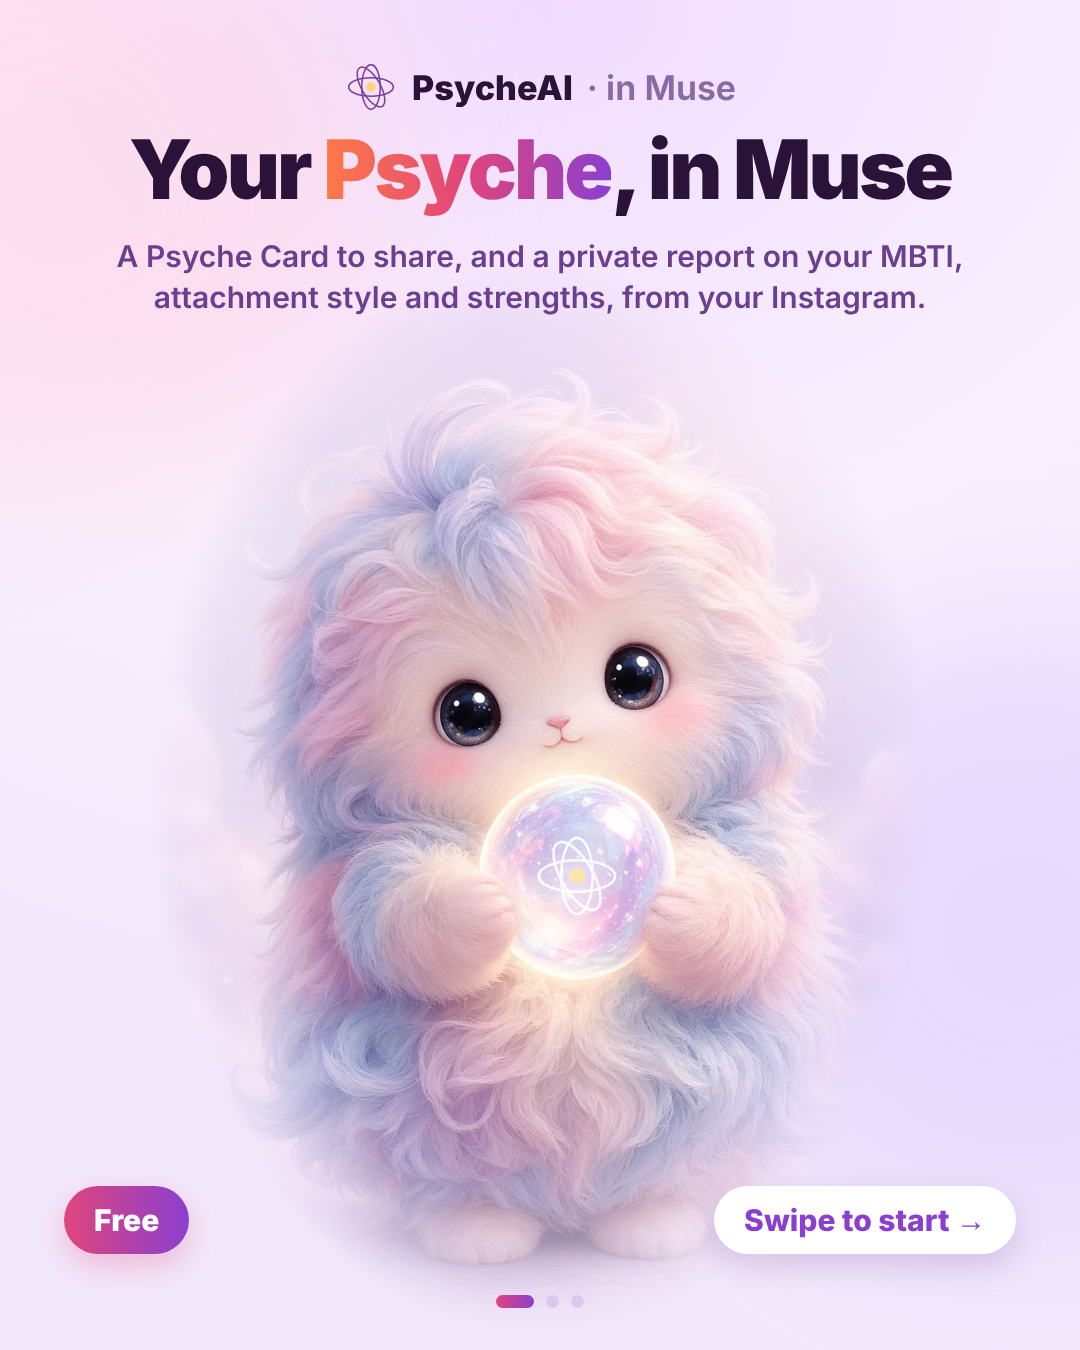
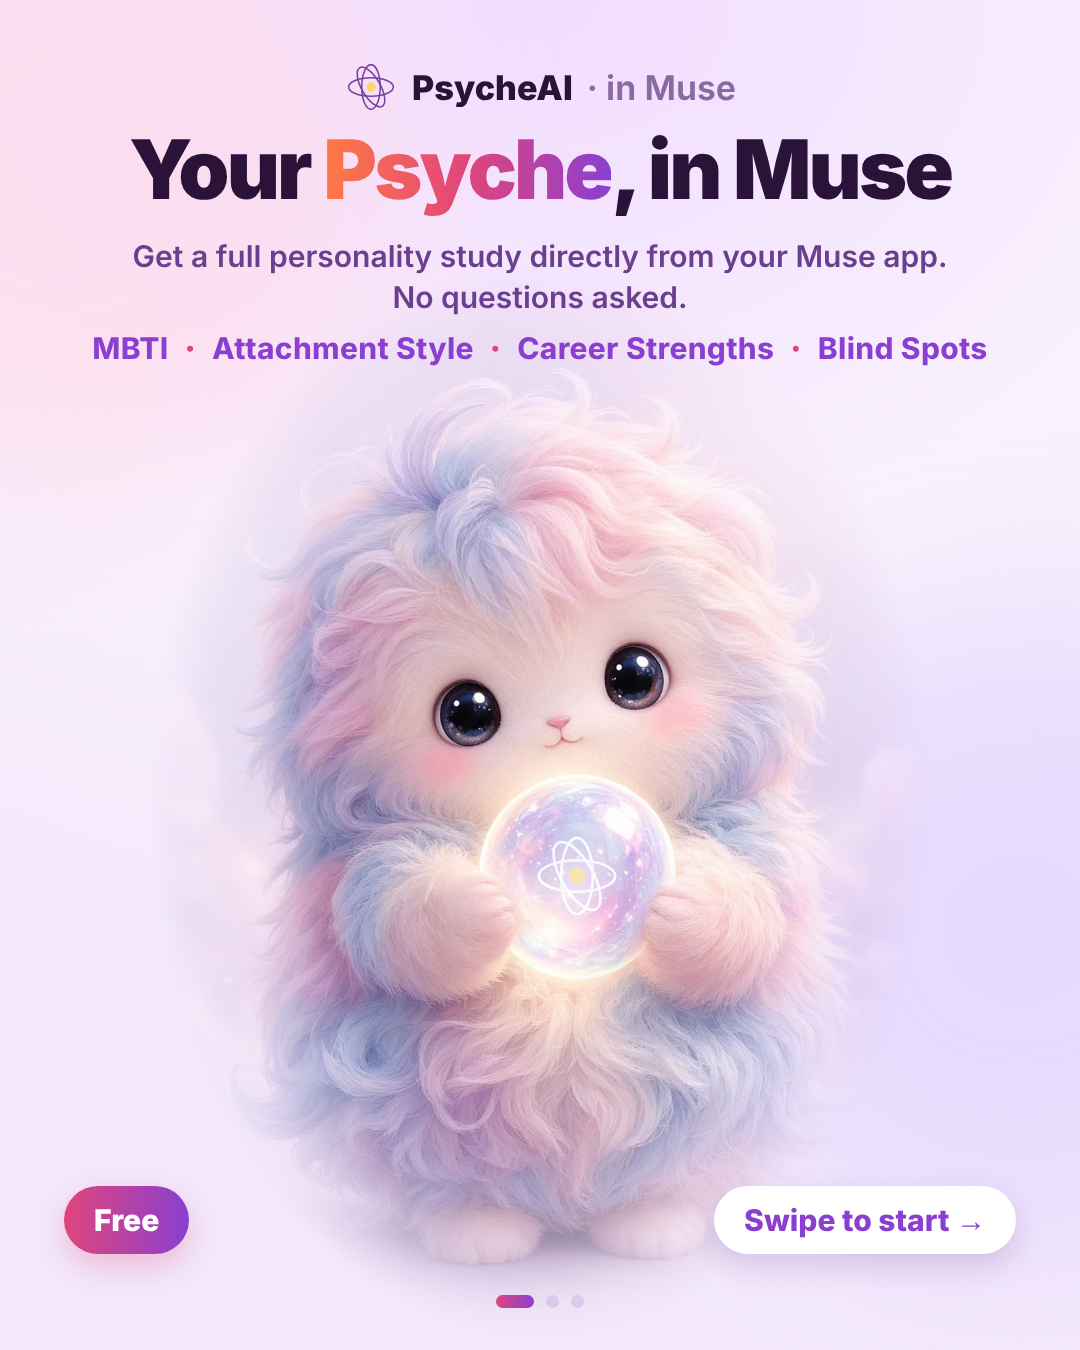
/muse's copy box gives the full prompt; the Muse carousel simpler: a full personality study with the four things it covers, the Card and Report made in Muse, "Then sync with a friend."
Claude-Session: https://claude.ai/code/session_01Fuzsy19nH9JnecaSEhjjzX

Changed region(s): [[0.1222, 0.1556, 0.9167, 0.28], [0.0917, 0.2489, 0.1528, 0.28]]

diff --git a/promo/carousel-muse.html b/promo/carousel-muse.html
@@ -30,7 +30,11 @@ h1 { position: absolute; left: 60px; right: 60px; text-align: center; font-size:
 #s1 .orbmark { position: absolute; z-index: 2; width: 92px; height: 92px; transform: translate(-50%, -50%);
   filter: drop-shadow(0 0 10px #fff) drop-shadow(0 0 22px rgba(255, 190, 240, .9)); opacity: .92; }
 #s1 h1 { top: 128px; }
-#s1 .lede { top: 236px; font-size: 30px; }
+#s1 .lede { top: 236px; font-size: 30px; left: 60px; right: 60px; }
+/* What the study covers, as on psycheai.io's front page: four words on one line, dots between. */
+#s1 .hpills { position: absolute; left: 0; right: 0; top: 330px; z-index: 3; display: flex; justify-content: center; list-style: none;
+  font-size: 30px; font-weight: 750; letter-spacing: .01em; color: #8a3fd0; white-space: nowrap; }
+#s1 .hpills li + li::before { content: "·"; margin: 0 16px; color: #e0457b; font-weight: 900; }
 #s1 .swipe { position: absolute; right: 64px; bottom: 96px; z-index: 3; padding: 16px 30px; border-radius: 999px; background: #fff;
   font-size: 30px; font-weight: 800; color: #8a3fd0; box-shadow: 0 12px 30px rgba(90, 40, 120, .18); }
 #s1 .free { position: absolute; left: 64px; bottom: 96px; z-index: 3; padding: 16px 30px; border-radius: 999px;
@@ -47,8 +51,7 @@ h1 { position: absolute; left: 60px; right: 60px; text-align: center; font-size:
 .card b { display: block; font-size: 38px; font-weight: 850; letter-spacing: -0.02em; line-height: 1.12; }
 .card span.d { display: block; margin-top: 8px; font-size: 26px; font-weight: 550; line-height: 1.36; color: #6b5a7b; }
 #s2 h1, #s3 h1 { top: 138px; }
-#s2 .lede, #s3 .lede { top: 240px; }
-#s2 .cards { top: 350px; gap: 30px; }
+#s2 .cards { top: 290px; gap: 34px; }
 #s2 .card { padding-top: 34px; padding-bottom: 34px; }
 #s3 .cards { top: 300px; gap: 26px; }
 #s3 .card { padding-top: 26px; padding-bottom: 26px; }
@@ -69,7 +72,8 @@ h1 { position: absolute; left: 60px; right: 60px; text-align: center; font-size:
   <div class="blob" style="width:620px;height:620px;right:-250px;top:620px;background:#e2d6ff;opacity:.7"></div>
   <div class="brand"><svg viewBox="0 0 140 140" class="mark"></svg>PsycheAI <span class="in">· in Muse</span></div>
   <h1>Your <span class="grad">Psyche</span>, in Muse</h1>
-  <p class="lede">A Psyche Card to share, and a private report on your MBTI, attachment style and strengths, from your Instagram.</p>
+  <p class="lede">Get a full personality study directly from your Muse app.<br>No questions asked.</p>
+  <ul class="hpills"><li>MBTI</li><li>Attachment Style</li><li>Career Strengths</li><li>Blind Spots</li></ul>
   <div class="mascot"></div>
   <svg class="orbmark mark" viewBox="0 0 140 140" id="orbmark"></svg>
   <div class="free">Free</div>
@@ -82,11 +86,10 @@ h1 { position: absolute; left: 60px; right: 60px; text-align: center; font-size:
   <div class="blob" style="width:640px;height:640px;left:-280px;top:700px;background:#e2d6ff;opacity:.6"></div>
   <div class="brand"><svg viewBox="0 0 140 140" class="mark"></svg>PsycheAI <span class="in">· in Muse</span></div>
   <h1>Private by <span class="grad">design</span></h1>
-  <p class="lede">Your Instagram is read inside Muse, never uploaded.</p>
   <div class="cards">
     <div class="card"><span class="icon">🔒</span><div><b>Stays in your Muse</b><span class="d">Your Instagram is read right in your own Muse account. Nothing to export or upload.</span></div></div>
     <div class="card"><span class="icon">🙈</span><div><b>De-identified first</b><span class="d">Names, handles, numbers and links removed, and no one else is quoted.</span></div></div>
-    <div class="card"><span class="icon">🗑</span><div><b>Made in Muse</b><span class="d">Your report and Psyche Card are made right in Muse. None of your posts, messages or report go to PsycheAI.</span></div></div>
+    <div class="card"><span class="icon">🗑</span><div><b>Made in Muse</b><span class="d">Your Psyche Card and Report are made right in Muse. None of your posts, messages or report go to PsycheAI.</span></div></div>
     <div class="card"><span class="icon">✋</span><div><b>Private to you</b><span class="d">Nothing is posted or shared with other people unless you choose to. Delete it all any time.</span></div></div>
   </div>
   <div class="dots"><i></i><i class="on"></i><i></i></div>
@@ -101,7 +104,7 @@ h1 { position: absolute; left: 60px; right: 60px; text-align: center; font-size:
     <div class="card"><span class="num">1</span><div><b>Open Muse</b><span class="d">Start a new chat in the Muse app.</span></div></div>
     <div class="card"><span class="num">2</span><div><b>Paste this prompt</b><div class="paste">Install psycheai.io/muse and generate my Psyche</div></div></div>
     <div class="card"><span class="num">3</span><div><b>Allow the install</b><span class="d">When Muse asks for permission, tap</span><div class="btns"><em class="pick">Always allow this site</em></div></div></div>
-    <div class="card"><span class="num">4</span><div><b>Your Psyche in ~5 minutes</b><span class="d">Choose to include direct messages or just posts. You will get a Psyche card and report. Then ask anything or sync with a friend.</span></div></div>
+    <div class="card"><span class="num">4</span><div><b>Your Psyche in ~5 minutes</b><span class="d">Choose to include direct messages or just posts. You will get a Psyche card and report. Then sync with a friend.</span></div></div>
   </div>
   <div class="foot">Free · <em>psycheai.io/muse</em></div>
   <div class="dots"><i></i><i></i><i class="on"></i></div>

diff --git a/docs/muse.html b/docs/muse.html
@@ -42,7 +42,7 @@
       <div><h2>PsycheAI</h2><p class="install-kind">Muse skill · free</p></div>
     </div>
     <p class="install-label">Paste into Muse</p>
-    <pre class="paste" id="install-prompt">Install psycheai.io/muse</pre>
+    <pre class="paste" id="install-prompt">Install psycheai.io/muse and generate my Psyche</pre>
     <div class="install-actions">
       <button type="button" class="btn install-copy" data-copy="install-prompt" data-done="Copied: paste it into Muse">Copy</button>
       <a class="btn install-secondary" href="/muse-docs">How it works</a>

diff --git a/README.md b/README.md
@@ -2823,6 +2823,10 @@ rules for writing it live here, so the plugin and the site can't drift.
 
 **Introvert signals on E/I (3 Nov 2026).** Two reads of one digest put the same reader at Extraversion 56 and 76; looking for I as hard as for E found three signals the ledger had no row for: "Gosh cant stand all this small talk", "I went by myself… on a tour" and "Solo date 🥲", and a long debate taken to one friend with an essay rather than to a group. The rubric (`lib/mbtiScore.js`) now has them in general form: the strong `own-words` row includes what being with people costs or gives them (small talk, time alone after people / coming alive with new people); `solo-by-choice` (weak, I) is things done alone by choice and said so, never alone because nobody was free; `keeps-reaching-out` (weak, E) is plans started again and again across the years, or friends introduced to each other; `one-to-one` (weak) is where they take what matters, to one person at length (I) or to a group or audience (E), kept apart from loyalty (long, close threads), which still counts for neither letter. The Muse guide's E/I line names the first two. The free and one-call prompt reserves grew with the rubric (15,600 and 41,800). The next read of the same digest went to I 46 with solo-by-choice at medium, so it went down to weak, and the E side gained keeps-reaching-out.
 
+**The Muse carousel, simpler (4 Nov 2026).** Slide 1 says "Get a full personality study directly from your Muse app. No questions asked." with the front page's four words under it (MBTI · Attachment Style · Career Strengths · Blind Spots). Slide 2 drops its subtitle and says "Your Psyche Card and Report are made right in Muse", matching the welcome's order. Slide 3's last step ends "Then sync with a friend." (promo/carousel-muse.html).
+
+**The full prompt on /muse (4 Nov 2026).** The copy box on /muse now holds "Install psycheai.io/muse and generate my Psyche", as the reel and the carousel show it: in Muse, that prompt brought the full welcome and the read, where a bare "Install psycheai.io/muse" only installed (psycheai-app README "The full prompt").
+
 **Muse privacy, literally true again (3 Nov 2026).** "Nothing about you comes to us unless you choose to Sync" said more than the skill does: it still calls our server for its own account (no name or email), start (the welcome and its menus), signed updates and the card art. Muse reviews the script before it shows the welcome, and stopped quoting the welcome's matching line (psycheai-app README "The welcome, word for word again"). /muse-privacy now says "None of your posts, messages or report come to us, and your Psyche Card's few lines only if you choose to Sync with a friend", and "What we receive" lists those calls. Carousel slide 2 already said "None of your posts, messages or report go to PsycheAI" and stays as it is.
 
 **Muse reads: not even that a Psyche was made (3 Nov 2026).** The skill no longer sends a read's timings or a "Psyche saved" note (psycheai-app README "Nothing about them leaves Muse"), so /muse-privacy says "Nothing about you comes to us unless you choose to Sync with a friend" again, and that the skill asks only for its private account and signed updates.
